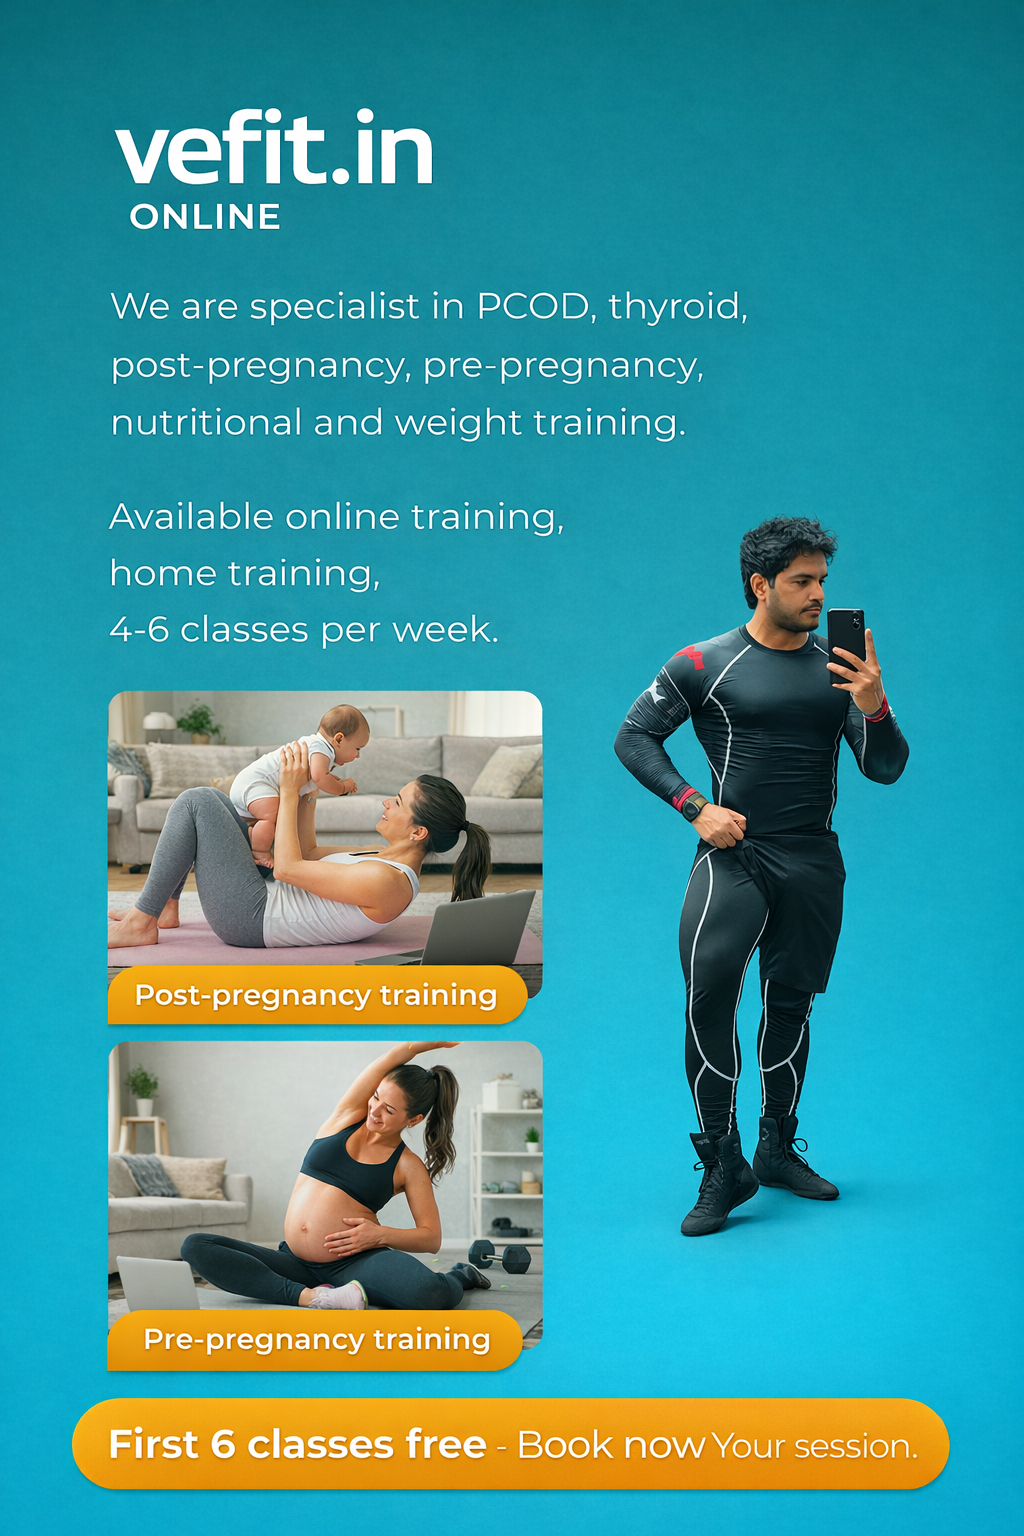
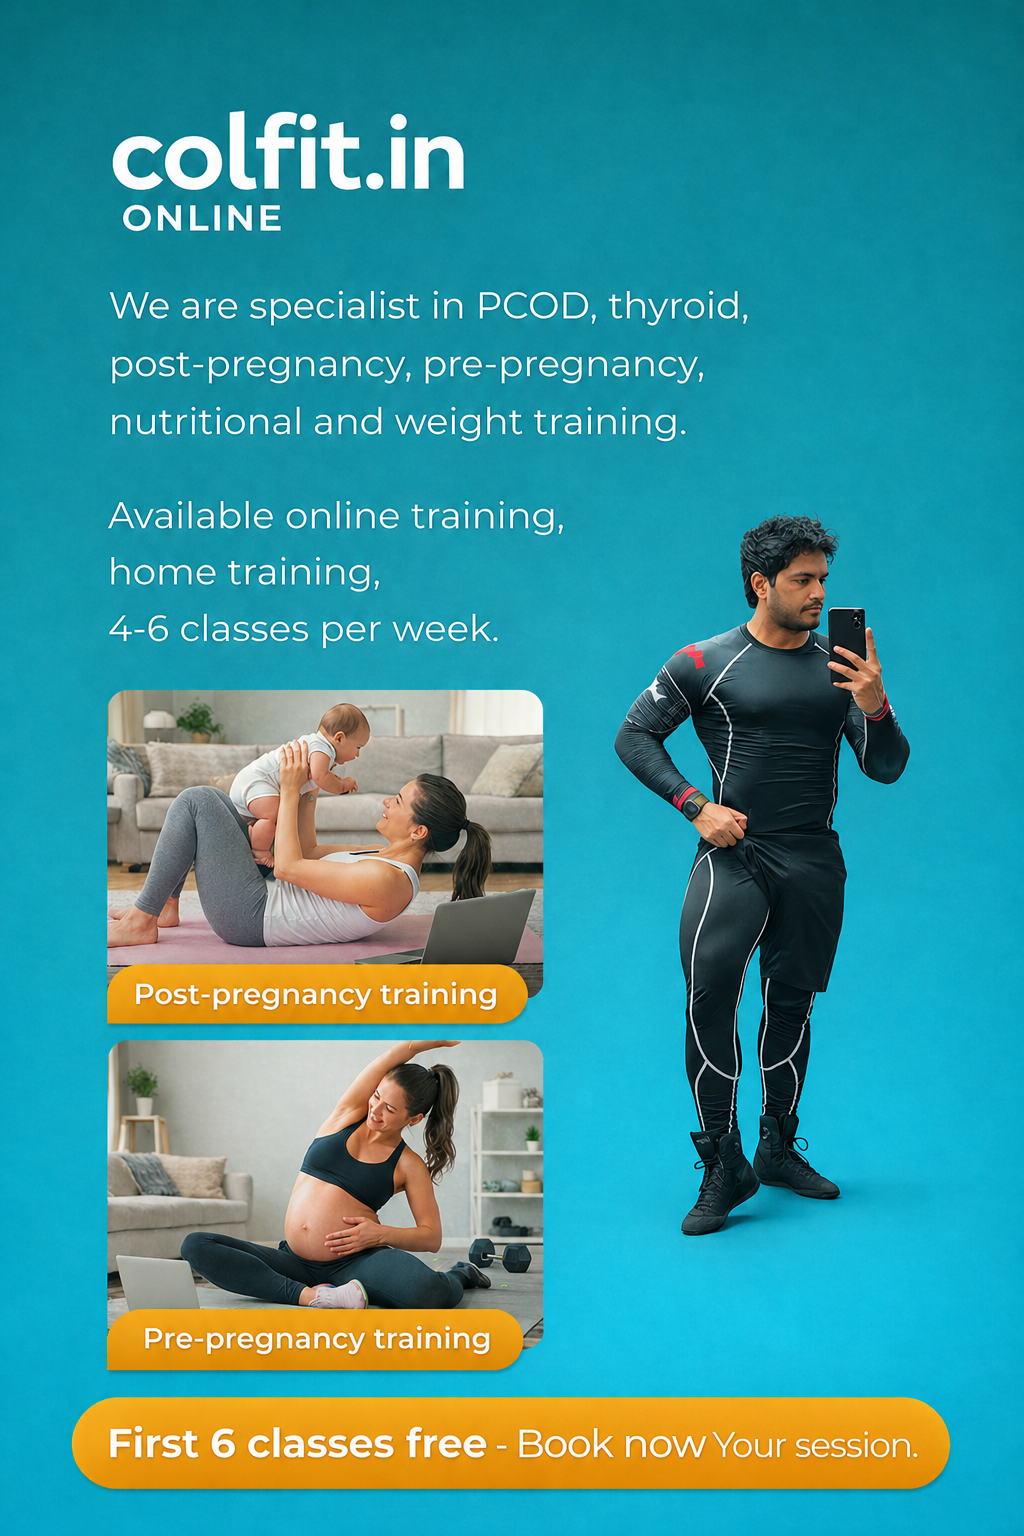
addedd into the git

diff --git a/src/pages/PartnerGyms.jsx b/src/pages/PartnerGyms.jsx
@@ -13,7 +13,7 @@ const PartnerGyms = () => {
       rating: "5.0",
       reviews: "305",
       address: "F8JV+VGC, Kondapur, Venkateshwara Nagar, Serilingampalle (M), Telangana 500084",
-      phone: "096663 24419",
+      phone: "99597 61403",
       hours: "6:00 AM - 12:00 PM | 4:00 PM - 10:00 PM",
       description: "Train together. Stay stronger. 💪❤ Join our Exclusive Couple Plans and transform together! Limited slots available – Join now!",
       features: [
@@ -26,6 +26,135 @@ const PartnerGyms = () => {
         "Clean Space",
         "Diet Plan"
       ]
+    },
+    {
+      id: 2,
+      name: "Sky9 Fitness Studio | Tolichowki",
+      image: "/images/sky9-fitness.png",
+      rating: "4.2",
+      reviews: "60",
+      address: "MCH Colony, Salarjung Colony, Nizam Colony, Toli Chowki, Hyderabad, Telangana 500008",
+      phone: "99597 61403",
+      hours: "6:00 AM - 11:30 PM",
+      description: "Sky9 Fitness Studio is an excellent gym with top-class amenities and a very positive workout environment. The equipment is modern, well-maintained, and suitable for all fitness levels. The gym is clean, spacious, and well organized.",
+      features: [
+        "Top-class Amenities",
+        "Modern Equipment",
+        "Well Maintained",
+        "Spacious Layout",
+        "Positive Atmosphere",
+        "Variety of Machines",
+        "Helpful Trainers",
+        "Aesthetic Lighting"
+      ]
+    },
+    {
+      id: 3,
+      name: "A1 Fitness",
+      image: "/images/a1-fitness.png",
+      rating: "4.6",
+      reviews: "161",
+      address: "Silver Oak Complex, 10-5-12/2/30/401, Ahmed Nagar, Masab Tank, Hyderabad, Telangana 500028",
+      phone: "99597 61403",
+      hours: "6:00 AM - 11:00 PM",
+      description: "A1 Fitness is well-equipped with weights, workout machines, and accessories. It offers a friendly atmosphere and centrally air-conditioned facilities with a high standard of hygiene.",
+      features: [
+        "Well Equipped",
+        "Central AC",
+        "Drinking Water",
+        "Clean Washrooms",
+        "Friendly Staff",
+        "Affordable Price",
+        "Experienced Trainers",
+        "Hygienic Environment"
+      ],
+      imagePosition: "object-top"
+    },
+    {
+      id: 4,
+      name: "Vintage Fitness Gym",
+      image: "/images/vintage-fitness.png",
+      rating: "4.8",
+      reviews: "360",
+      address: "1-57/19, above Royal Fruit Shop, Kondapur, Sri Ram Nagar, Gachibowli, Hyderabad, Telangana 500084",
+      phone: "99597 61403",
+      hours: "6:00 AM - 10:00 PM",
+      description: "Vintage Fitness Gym is one of the best gyms in the area with a wonderful environment to workout. It features a huge collection of equipment and amazing personal trainers like Tarun, Sameer, and Raju who guide you through your fitness journey.",
+      features: [
+        "Personal Training",
+        "Diet Planning",
+        "Supportive Trainers",
+        "Huge Equipment Collection",
+        "Motivating Environment",
+        "Safe & Hygienic",
+        "Expert Guidance",
+        "Modern Facility"
+      ]
+    },
+    {
+      id: 5,
+      name: "Primezone Fitness - [ PREMIUM ]",
+      image: "/images/primezone-fitness.png",
+      rating: "4.8",
+      reviews: "119",
+      address: "304, Ayyappa Society Main Rd, Ayyappa Society, Madhapur, Hyderabad, Telangana 500081",
+      phone: "99597 61403",
+      hours: "6:00 AM - 11:30 PM",
+      description: "Join Primezone Fitness for a premium fitness experience at an affordable price. We offer brand new, advanced equipment and a highly supportive environment with friendly staff to ensure your fitness goals are met.",
+      features: [
+        "Premium Equipment",
+        "Supportive Trainers",
+        "Zumba Classes",
+        "Advanced Machines",
+        "Friendly Environment",
+        "Well Maintained",
+        "Clean & Hygienic",
+        "Flexible Plans"
+      ]
+    },
+    {
+      id: 6,
+      name: "Prime Fitness Gym",
+      image: "/images/prime-fitness-kondapur.png",
+      rating: "4.5",
+      reviews: "604",
+      address: "1st Floor, Botanical Garden Rd, Kondapur, Gachibowli, Hyderabad, Telangana 500084",
+      phone: "99597 61403",
+      hours: "6:00 AM - 10:00 PM",
+      description: "Prime Fitness Gym stands out for its excellent facility, equipment, and friendly trainers. It's a nicely maintained place for daily workouts with motivating trainers who provide personalized tips and tricks.",
+      features: [
+        "Motivating Trainers",
+        "Diet Planning",
+        "Excellent Facility",
+        "Friendly Atmosphere",
+        "Nice Ambience",
+        "Well Maintained",
+        "Cool Pricing",
+        "Personalized Tips"
+      ],
+      imagePosition: "object-top"
+    },
+    {
+      id: 7,
+      name: "Iron Kingdom Gym - Kondapur",
+      image: "/images/iron-kingdom.png",
+      rating: "4.9",
+      reviews: "111",
+      address: "1-57/3/A & 1-57/76/A Botanical garden road, Sriram Nagar Colony, Kondapur, Hyderabad, Telangana 500084",
+      phone: "99597 61403",
+      hours: "6:00 AM - 10:00 PM",
+      description: "Iron Kingdom Gym offers a modern equipment setup in a clean and hygienic environment. Our professional and supportive trainers ensure proper guidance for both beginners and experienced fitness enthusiasts.",
+      features: [
+        "Modern Equipment",
+        "Clean Environment",
+        "Weight Training",
+        "Professional Guidance",
+        "Positive Vibe",
+        "Supportive Trainers",
+        "Hygienic Space",
+        "Highly Recommended"
+      ],
+      imagePosition: "object-top"
     }
   ];
 
@@ -71,7 +200,11 @@ const PartnerGyms = () => {
               onClick={() => setSelectedGym(gym)}
             >
               <div className="relative h-52 overflow-hidden">
-                <img src={gym.image} alt={gym.name} className="w-full h-full object-cover transition-transform duration-700 group-hover:scale-110" />
+                <img 
+                  src={gym.image} 
+                  alt={gym.name} 
+                  className={`w-full h-full object-cover transition-transform duration-700 group-hover:scale-110 ${gym.imagePosition || ''}`} 
+                />
                 <div className="absolute top-4 left-4 bg-[#f1b407] text-black text-[10px] font-black px-3 py-1 rounded-xl uppercase tracking-widest shadow-md">
                   Active Partner
                 </div>
@@ -143,7 +276,11 @@ const PartnerGyms = () => {
               <div className="overflow-y-auto custom-scrollbar">
                 {/* Main Image */}
                 <div className="h-60 md:h-72 w-full">
-                  <img src={selectedGym.image} alt={selectedGym.name} className="w-full h-full object-cover" />
+                  <img 
+                    src={selectedGym.image} 
+                    alt={selectedGym.name} 
+                    className={`w-full h-full object-cover ${selectedGym.imagePosition || ''}`} 
+                  />
                 </div>
 
                 <div className="p-6 md:p-8 space-y-8">

diff --git a/src/pages/Home.jsx b/src/pages/Home.jsx
@@ -29,7 +29,26 @@ const Home = () => {
 
 
       {/* Main Categories Section */}
-      <section className="max-w-7xl mx-auto px-4 sm:px-6 lg:px-8 py-16 grid grid-cols-1 md:grid-cols-2 lg:grid-cols-4 gap-8">
+      <section className="max-w-[1600px] mx-auto px-4 sm:px-6 lg:px-8 py-16 grid grid-cols-1 sm:grid-cols-2 md:grid-cols-3 lg:grid-cols-5 gap-6 lg:gap-8">
+
+        {/* Partner Hospitals Card */}
+        <motion.div
+          initial={{ opacity: 0, y: 30 }}
+          whileInView={{ opacity: 1, y: 0 }}
+          viewport={{ once: true }}
+          transition={{ duration: 0.6 }}
+          className="relative py-20 px-10 text-center rounded-3xl bg-cover bg-right overflow-hidden shadow-2xl group cursor-pointer border-2 border-pink-500/30 hover:border-pink-500 transition-all duration-500"
+          style={{ backgroundImage: "url('/images/hospitals-hero-final.png')" }}
+          onClick={() => navigate('/hospitals')}
+        >
+          <div className="absolute inset-0 bg-black/60 z-0 group-hover:bg-black/40 transition duration-500"></div>
+          <div className="relative z-10">
+            <span className="text-pink-400 font-bold uppercase tracking-[0.2em] text-[10px] mb-2 block">Healthcare</span>
+            <h2 className="text-xl md:text-2xl font-black uppercase mb-4 text-white tracking-wider">Partner Hospitals</h2>
+            <p className="text-gray-200 mb-8 font-light text-[10px] md:text-xs">Expert medical care and consultation through our network of specialized hospitals.</p>
+            <span className="bg-pink-600 text-white uppercase font-bold py-2.5 px-6 rounded-full hover:bg-pink-500 transition-all shadow-lg inline-block text-xs group-hover:scale-105">View Hospitals</span>
+          </div>
+        </motion.div>
 
         {/* Pink Angels Card */}
         <motion.div

diff --git a/src/components/Navbar.jsx b/src/components/Navbar.jsx
@@ -1,6 +1,7 @@
 import React, { useState } from 'react';
 import { Link, useLocation } from 'react-router-dom';
 import { FiMenu, FiX } from 'react-icons/fi';
+import { path } from 'framer-motion/client';
 
 const Navbar = () => {
   const [isOpen, setIsOpen] = useState(false);
@@ -9,6 +10,7 @@ const Navbar = () => {
   const links = [
     { name: 'Home', path: '/' },
     { name: 'Pink Angel', path: '/pink-angels' },
+    { name: 'Doctors ', path: '/hospitals' },
     { name: 'Gyms & Trainers', path: '/training' },
     { name: 'Franchise', path: '/franchise' },
     { name: 'Equipments', path: '/gym-equipments' },
